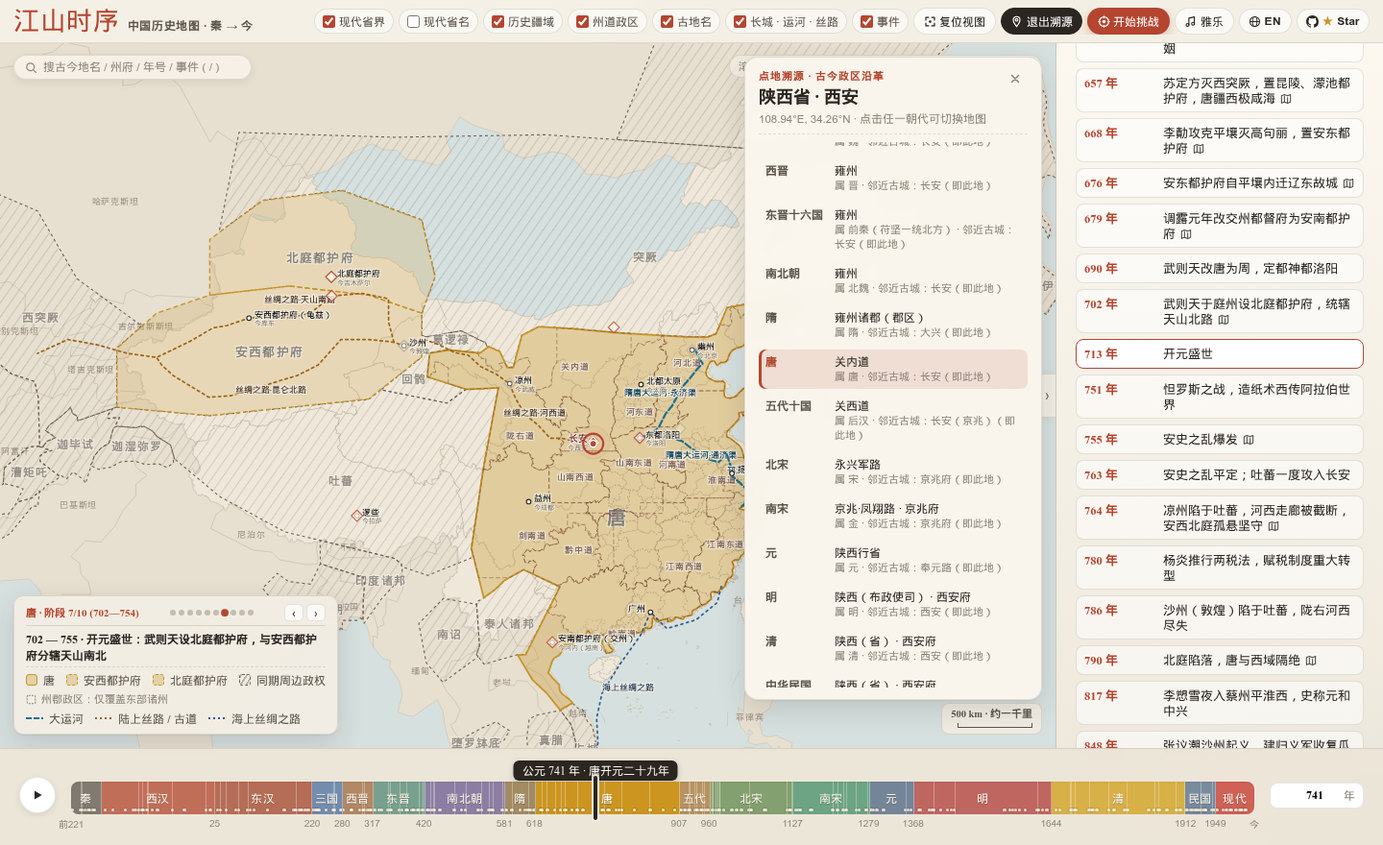
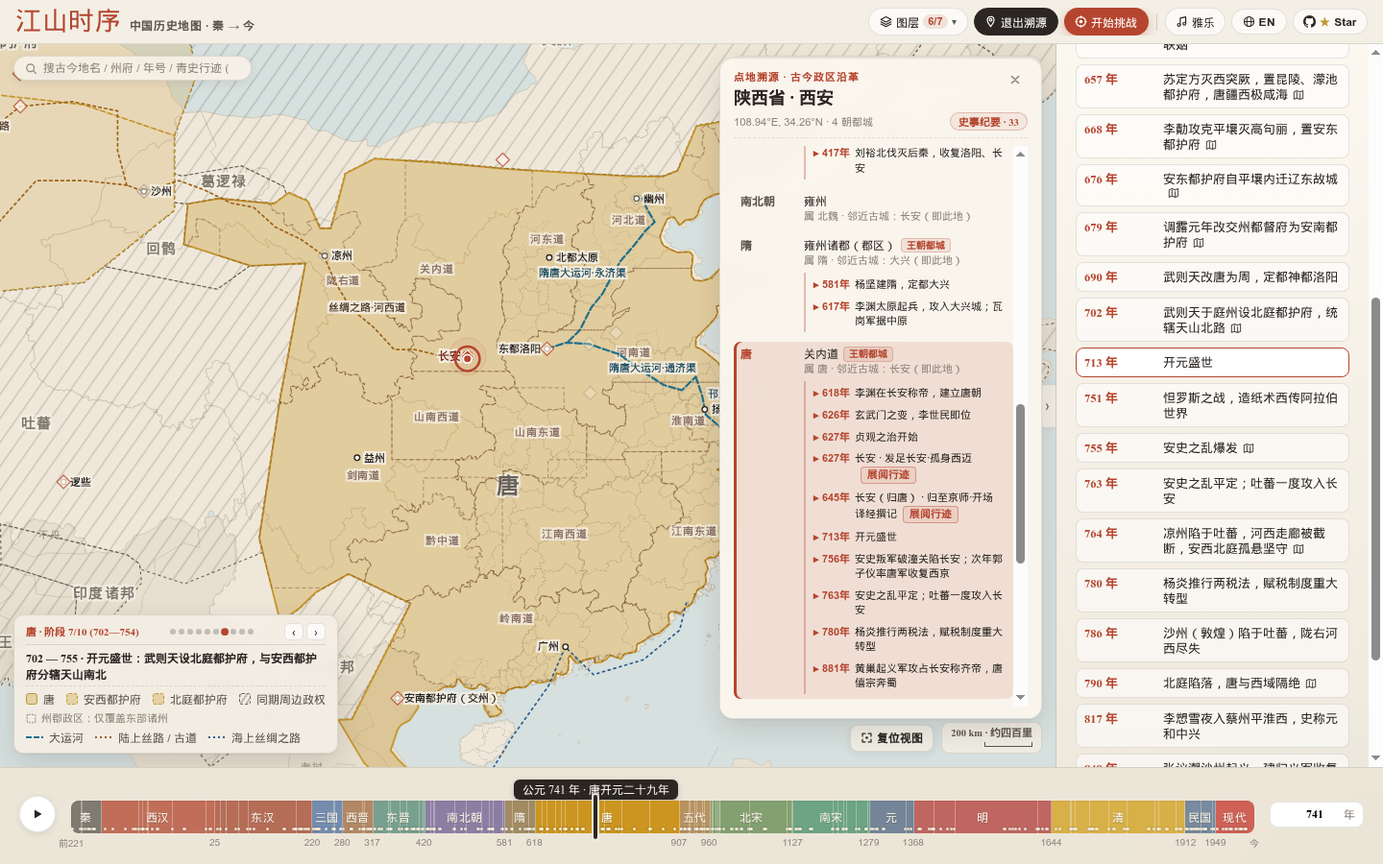
docs(readme): rewrite README around interactive ways to explore and add 5 updated preview screenshots

diff --git a/README.md b/README.md
@@ -1,153 +1,129 @@
 # 江山时序 · Chronicles of the Realm
 
-**中国历史疆域与政区交互式时间轴舆图（公元前 221 年 — 今）**  
+**一幅可以拖动时间、点城读史、追随古人足迹的中国历史交互舆图（公元前 221 年 — 今）**  
 **An Interactive Historical Atlas of China from the Qin Unification (221 BCE) to the Present**
 
-[**在线体验 / Live Demo → https://deanchensj.github.io/jiangshan-map/**](https://deanchensj.github.io/jiangshan-map/)
+[**立即在线把玩 / Play Live Demo → https://deanchensj.github.io/jiangshan-map/**](https://deanchensj.github.io/jiangshan-map/)
 
 ---
 
-## 界面预览 / Interface Preview
+## 这幅地图好玩在哪里？ / Why It's Fun to Explore
 
-### 1. 北宋元丰六年（1083 年）· 二级州府悬停检视（黄州）
-> **Northern Song (1083 CE · 6th Year of Yuanfeng) · Prefecture-Level Hover Inspection (`Huangzhou`)**  
-> 放大至荆湖北路与江淮之间，鼠标悬停于「黄州」（苏轼谪居黄州作《赤壁赋》次年），图面自动高亮黄州州境多边形并浮窗显示所属政权（宋）及今日对应省份（湖北省）；左下角显示北宋 10 个版图阶段进度条（`阶段 8/10 · 1038—1114`），右下角实时换算古今双标比例尺（`200 km · 约四百里`）。  
-> *Zoomed into Central China in 1083 CE with the cursor hovering over **Huangzhou** (where Su Shi composed the Ode on the Red Cliffs), highlighting its prefecture boundary, ruling polity (`Song`), modern provincial mapping (`Hubei`), intra-dynasty stage switcher (`Stage 8/10`), and dual-unit scale bar (`200 km · 400 li`).*  
-> [点击直达该视图 / Open this exact view →](https://deanchensj.github.io/jiangshan-map/?year=1083&zoom=1.85&center=113.5,31.2&hover=%E9%BB%84%E5%B7%9E)
+读史书、背古诗词时，你是否也常有这样的困惑：
+- *「六朝古都建康、苏东坡被贬的黄州、岳飞北伐的朱仙镇，放在今天的地图上到底在哪儿？」*
+- *「长安在两千年里换过多少个名字？这片土地上先后发生过多少场改写国运的大事？」*
+- *「汉武帝打通河西走廊、唐朝极盛期的安西都护府、宋辽夏三足鼎立，版图是怎么一步步演变的？」*
+
+**「江山时序」** 把两千多年的王朝疆域、州郡变迁、历史风云与人物行迹装进了一张宣纸设色古舆图里。你不需要翻检厚重的历史地图册，只需拖动滑块、点点城池，就能在时空之间自由穿梭。
+
+---
+
+### 玩法一：点开任意一座城，读它两千年的身世与风云
+
+在地图上**直接点击任意古城**（或者双击地图任意位置），就会展开一张 **「点地溯源」** 卡片：
+- **看古今政区怎么变**：从秦朝的郡、汉朝的刺史部、唐朝的道、宋朝的路，一路看到明清的府省，哪几个朝代曾在此建都（`王朝都城` 徽章）一目了然。
+- **看这里发生过什么大事**：每个朝代行下方直接内嵌当年发生在此地的历史大事（如长安的「玄武门之变」「开元盛世」「安史之乱陷长安」）。点一下右上角的 **「史事纪要」** 胶囊，还能一键筛出有大事发生的朝代；点击任意一条事件，时间轴和地图版图立即穿越回那一年！
+
+> [点击直达：盛唐开元二十九年（741 年）· 点开长安看 33 桩千年风云 →](https://deanchensj.github.io/jiangshan-map/?year=741&trace=108.94,34.26)
+
+![盛唐 741 年 · 长安点地溯源与史事纪要](assets/preview_741_tang_trace.png)
+
+---
+
+### 玩法二：跟着张骞、玄奘、苏东坡走一趟万里人生路
+
+打开 **「青史行迹」**，你可以化身历史同路人，沿着三条跨越万里与数十载的经典路线逐站巡礼：
+- **张骞凿空西域（前 138 — 前 126 年）**：从长安出发，被匈奴羁留十余载不改其志，持汉节一路走到大宛、康居、大月氏。
+- **玄奘西行求法（627 — 645 年）**：孤身出玉门关，涉莫贺延碛、越凌山雪隘、渡印度河，抵那烂陀寺求法归唐。
+- **苏轼宦海贬谪行迹（1056 — 1101 年）**：从出川赴京、密州超然台赏月，到乌台诗案后贬谪黄州写下《赤壁赋》，再到惠州、跨海远谪海南儋州。
+
+每点「下一站」（或按空格键开启自动巡礼），**底下的历史年份、帝王年号、王朝版图都会跟着古人的脚步同步流转**，卡片里还会浮现他们当年在此地留下的《史记》记载或千古名篇。
+
+> [点击直达：跟着苏东坡去密州与黄州（1075 — 1082 年）→](https://deanchensj.github.io/jiangshan-map/?journey=sushi&stop=4)
+
+![青史行迹 · 苏轼宦海贬谪路线](assets/preview_journey_sushi.png)
+
+---
+
+### 玩法三：拉动时间轴看天下分合，悬停州府查古今对号
+
+- **同屏看多政权对峙**：不仅有中原王朝，匈奴、突厥、吐蕃、回鹘，以及北宋时期的辽、西夏、大理，南宋时期的金、蒙古，都以各自鲜明的设色同屏呈现。鼠标移到左下角图例的政权名字上，对应政权立刻高亮；点一下直接聚焦过去。
+- **疆域盈亏「虚线残影」**：同一个朝代内部也有多次疆域伸缩（比如北宋 10 个阶段、唐朝 12 个阶段）。点左下角图例的阶段小圆点或 `‹ / ›` 按钮，图面会浮现上一阶段的朱砂虚线残影，哪块地是新开辟的、哪块地丢了，一眼看穿。
+- **300+ 历史州府悬停即查**：放大地图，鼠标指到任意州郡（如北宋的「黄州」、三国的「荆州」），自动高亮州界，并告诉你它属于哪个政权、对应今天的哪个省。
+
+> [点击直达：北宋元丰六年（1083 年）· 宋辽夏三足鼎立与「黄州」州境探查 →](https://deanchensj.github.io/jiangshan-map/?year=1083&zoom=1.85&center=113.5,31.2&hover=%E9%BB%84%E5%B7%9E)
 
 ![北宋 1083 年 · 黄州政区悬停预览](assets/preview_1083_huangzhou.png)
 
-### 2. 盛唐开元二十九年（741 年）· 开元十五道与长安「点地溯源」
-> **High Tang (741 CE · 29th Year of Kaiyuan) · Fifteen Kaiyuan Circuits & Administrative Genealogy (`Chang'an / Xi'an`)**  
-> 展示盛唐本纪版图、开元十五道与安西、北庭两大都护府及海陆丝绸之路，并开启「点地溯源」检视长安（今陕西西安）从秦内史、汉司隶、唐关内道、宋永兴军路直至明清的完整政区沿革，当前朝代（唐）自动朱砂高亮并居中同步。  
-> *Visualizing the High Tang empire at its territorial zenith alongside the Fifteen Circuits, the Anxi and Beiting Protectorates, and the Silk Road, with the **Trace Place** card open for Chang'an (`Xi'an, Shaanxi`) and live-synced to the active Tang dynasty row.*  
-> [点击直达该视图 / Open this exact view →](https://deanchensj.github.io/jiangshan-map/?year=741&trace=108.94,34.26)
+---
 
-![盛唐 741 年 · 长安点地溯源预览](assets/preview_741_tang_trace.png)
+### 玩法四：看千年工程动脉、量古代华里、听古琴雅乐
+
+- **长城、运河与丝路随年代生长**：切到秦汉明看万里长城演进，切到隋大业四年（608 年）看隋炀帝开凿的永济渠、通济渠、邗沟、江南河如何把涿郡（今北京）、洛阳、江都（今扬州）与余杭（今杭州）连成一体，切到永乐年间看郑和船队下西洋。
+- **读史专用的「公里 / 华里」双标比例尺**：右下角比例尺会随着缩放自动换算公里与传统华里（如 `200 km · 约四百里`），读史书看到「孤军深入三百里」时，直接在图上就能比划出有多远。
+- **古琴「雅乐」伴读**：点一下顶部工具栏的 **「雅乐」**，伴着《流水》《平沙落雁》《阳关三叠》《醉渔唱晚》《酒狂》的古琴声慢慢看图，历史氛围直接拉满。
+
+> [点击直达：隋大业四年（608 年）· 隋唐大运河贯通南北 →](https://deanchensj.github.io/jiangshan-map/?year=608)
+
+![隋 608 年 · 隋唐大运河与单行古地名](assets/preview_608_sui_canal.png)
 
 ---
 
-## 中文介绍
+### 玩法五：古地名挑战 —— 测测你在古代能当几品官？
 
-**「江山时序」** 是一套零外部运行时依赖的纯前端交互式中国历史地图集。项目以宣纸设色舆图为视觉基调，涵盖从秦并天下（前 221 年）至今两千余年的疆域消长、帝王年号纪年、一级行政大区（州 / 道 / 路 / 行省 / 布政使司 / 省）、二级郡县州府边界、古今名城沿革、重大历史事件空间锚点以及长城、运河、丝绸之路等交通动脉。
+觉得自己历史地理很熟？点右上角的 **「开始挑战」** 试试身手：
+- **地图寻址模式**：地图隐去所有文字标注，题目给出「南宋时期的泉州」「六朝古都建康」或「元代的奉元路」，凭你的历史直觉在地图上扎针，系统按你的落点与真实古城的球面距离打分！
+- **古今对号模式**：高亮地图上的某座古城，从四个现代城市里选出它的今日真身。
+- 十道题答完，系统会根据总分授予你 **「太史令 · 舆图大家」「职方郎中」「州郡从事」** 等传统官阶封号。
 
-### 核心功能
+> [点击直达：开启「古地名挑战 · 地图寻址」模式 →](https://deanchensj.github.io/jiangshan-map/?year=741&quiz=locate)
 
-1. **105 个高精度多阶段历史疆域快照与「疆域残影对比（Ghost Diff）」**
-   - 覆盖 **16 个历史时期**：秦、西汉、东汉、三国、西晋、东晋十六国、南北朝、隋、唐、五代十国、北宋（辽 / 西夏）、南宋（金 / 西夏 / 大蒙古国）、元、明、清、民国及现代。
-   - **朝代内阶段步进器**：左下角图例内置阶段圆点与 `‹ / ›` 步进按钮，直显当前阶段起止年份（如 `北宋 · 阶段 8/10 (1038—1114)`）。
-   - **疆域残影对比（Ghost Diff）**：在同一朝代内切换阶段或悬停阶段圆点时，图面自动以虚线叠加上一阶段或目标阶段的疆域轮廓残影，直观呈现版图扩张与收缩的精确边界；底部时间轴色块内嵌阶段切分刻度线与事件微标。
-2. **全量帝王年号纪年系统（前 221 年 — 1949 年）**
-   - 覆盖从秦始皇二十六年（前 221 年）、汉武帝建元/元狩、唐贞观/开元、宋熙宁/元丰直至明清与民国的完整帝王年号表。
-   - 时间轴滑块气泡、事件浮窗与搜索框同步展示公历与传统年号（如 `公元前119年 · 西汉元狩四年`、`公元1083年 · 北宋元丰六年`）。
-3. **全局快速检索框（快捷键 `/` 或 `Cmd/Ctrl + K`）**
-   - 左上角悬浮检索框支持跨朝代即时搜索**古今地名**（如「长安」「建康」「临安」）、**州道政区**（如「黄州」「荆湖北路」）、**帝王年号与公历年份**（如「贞观」「元丰六年」「1083」）、**朝代**及**重大历史事件**（如「淝水之战」），选中后自动跳转年代、平滑飞移镜头并展开沿革或事件详情。
-4. **双层历史政区体系（大区常驻 + 州府悬停）与图例双向联动**
-   - **第一级行政大区**：图面清晰展示汉十三刺史部、唐开元十五道与天宝节度使、宋代诸路、元代行中书省、明代两京十三布政使司、清代省及将军辖区。
-   - **第二级州郡府军（300+ 政区）**：保留精细州郡边界，鼠标悬停（或移动端轻点）即可高亮该州府并显示所属政权与今日对应的现代省份。
-   - **图例与政权双向联动**：鼠标悬停左下角图例中的任意政权色块，地图对应政权疆域与国号自动高亮、其余政权半透明退后；点击图例色块自动缩放聚焦至该政权版图范围。
-5. **分级古今名城、自动避让排版与动态古今比例尺（`km · 华里`）**
-   - 默认视图聚焦历代都城、陪都与重镇；放大视图（`Zoom >= 1.75x`）自动浮现各道、路、行省治所及边塞名城，并标注古今地名对照与历史典故。
-   - 画布右下角配备随缩放倍率与中心纬度实时重算的**公制 / 传统华里双标比例尺**（如 `500 km · 约一千里`、`200 km · 约四百里`），读史看图时可直接换算古籍中的行军里程。
-6. **点地溯源（古今政区沿革追踪 · 实时同步）**
-   - 直接**单击任意古城**（或双击地图任意位置 / 开启「点地溯源」模式），即时生成该地点从秦郡、汉州郡、唐道州、宋路府、元行省到明清府省的 15 朝完整政区沿革卡片。
-   - 当前所处朝代自动朱砂高亮并居中滚动；在不关闭卡片的情况下拖动时间轴或切换阶段，卡片会实时同步刷新该地在当前年份的政权与州郡归属。
-7. **双模式古地名挑战（十题计分授衔）**
-   - **地图寻址**：给定某朝代古地名（如「建康」「临安」「奉元路」「天临路」），在隐去地名的历史底图上点击定址，按大圆球面距离（km）计算得分并绘制误差圈。
-   - **古今对号**：结合地图落点提示，从四个现代城市选项中选出古地名对应的今日城市。十题结束后根据总分授予「太史令 · 舆图大家」「職方郎中」等传统官制封号。
-8. **青史行迹 · 人物时空巡礼（张骞凿空西域 / 玄奘西行求法 / 苏轼宦海贬谪）**
-   - 内置三条横跨万里与数十载的人物叙事路线：**张骞凿空西域**（前 138 — 前 126 年，9 站）、**玄奘西行求法**（627 — 645 年，10 站）、**苏轼宦海贬谪行迹**（1056 — 1101 年，10 站）。
-   - 支持从顶部「图层」菜单、全局搜索框 `/`、编年史事件卡「展阅行迹」按钮或 URL 参数开启；支持逐站步进、`Space` 自动巡礼与「全线视图」鸟瞰，切换站点时时间轴年份、帝王年号与底层王朝疆域自动实时联动，配以《史记》《大唐西域记》及东坡诗词原文引文。
-9. **历史工程走廊、传统古琴雅乐与全屏舆图模式**
-   - 动态按年代渲染秦汉明三代**长城**、隋唐与元明清**大运河**、**陆上丝绸之路**、**唐蕃古道**、**西南丝路（茶马古道）**及**郑和下西洋航线**。
-   - 顶部内置 **「雅乐」** 播放器，收录《流水》《平沙落雁》《阳关三叠》《醉渔唱晚》《酒狂》五首公有领域传统古琴名曲，支持曲目切换与 Web Audio 五声音阶离线泛音合成兜底。
-   - 支持一键折叠右侧编年栏进入 **100% 全屏舆图模式**，并提供中英双语（`中文` / `EN`）全量无损切换。
+![古地名挑战模式预览](assets/preview_quiz_challenge.png)
 
-### 快捷键与交互速查表
+---
 
-| 操作 / 按键 | 功能说明 |
+## 实用快捷键与任意门（Deep Links）
+
+### 快捷键一览
+
+| 操作 / 按键 | 作用 |
 | :--- | :--- |
-| `/` 或 `Cmd/Ctrl + K` | 聚焦左上角全局检索框（搜古今地名 / 州府 / 年号 / 公历年份 / 朝代 / 青史行迹） |
-| `←` / `→` | 年份向前 / 向后步进 `10` 年（按住 `Shift + ←/→` 步进 `50` 年；行迹模式下切换上/下一站） |
-| `Space`（空格键） | 启动 / 暂停历史时间轴自动演进播放（行迹模式下启动 / 暂停自动巡礼） |
-| `Home` / `End` | 一键跳至时间轴起点（前 221 年秦一统）或终点（现代） |
-| `Esc` | 关闭当前打开的行迹巡礼、事件气泡、搜索下拉框或点地溯源卡片 |
-| **单击古城 / 双击地图** | 直接打开该坐标从秦至清的 15 朝「点地溯源」沿革卡片 |
-| **悬停 / 点击左下角图例政权** | 悬停单独高亮该政权版图；点击自动平滑缩放聚焦至该政权疆域 |
-| **悬停左下角阶段圆点或 `‹ / ›`** | 在图面实时预览目标版图阶段的朱砂虚线疆域边界（Ghost Diff） |
+| **`/`** 或 **`Cmd/Ctrl + K`** | 唤醒左上角**万能搜索框**：搜古今地名（`长安`/`西安`）、州府（`黄州`）、年号（`贞观`/`元丰六年`）、年份（`1083`）、事件（`淝水之战`）或人物行迹（`苏轼`） |
+| **`←` / `→`** | 时间轴向前 / 向后走 `10` 年（按住 `Shift` 走 `50` 年；行迹模式下切换上一站 / 下一站） |
+| **`Space`（空格键）** | 自动播放 / 暂停历史演进（行迹模式下自动巡礼） |
+| **`单击古城` / `双击地图`** | 打开该地从秦到清的 15 朝「点地溯源 + 史事纪要」卡片 |
+| **`悬停 / 点击图例色块`** | 悬停单独高亮该政权疆域；点击自动缩放聚焦至该政权 |
 
-### 朝代与政区覆盖概览
+### 一键直达链接（适合分享给朋友）
 
-| 时期 | 年代范围 | 快照数 | 一级政区层级 | 代表性阶段示例 |
-| :--- | :--- | :---: | :--- | :--- |
-| **秦** | 前221 — 前202 | 3 | 关中与诸郡大区 | 秦并六国、北击匈奴南征百越、秦末楚汉之际 |
-| **西汉** | 前202 — 公元25 | 8 | 十三刺史部（州） | 汉初郡国并行、汉武帝开疆、西域都护府设立、新莽时期 |
-| **东汉** | 25 — 220 | 6 | 十三州刺史部 | 光武中兴、班超经营西域、黄巾起义与州牧割据 |
-| **三国** | 220 — 280 | 6 | 魏蜀吴三方州域 | 魏蜀吴鼎立、诸葛亮北伐、邓艾灭蜀 |
-| **西晋** | 280 — 317 | 4 | 十九州 | 太康之治天下一统、八王之乱、永嘉之乱 |
-| **东晋十六国** | 317 — 420 | 9 | 侨州与南北州域 | 祖逖北伐、前秦统一北方、淝水之战、刘裕北伐 |
-| **南北朝** | 420 — 589 | 9 | 南北诸州 | 元嘉北伐、北魏孝文帝汉化、东西魏与北齐北周对峙 |
-| **隋** | 589 — 618 | 4 | 州 / 郡 | 开皇平陈一统、大运河开通与炀帝西巡、隋末群雄 |
-| **唐** | 618 — 907 | 12 | 贞观十道 / 开元十五道 / 节度使 | 贞观平突厥、龙朔极盛、开元盛世、安史之乱、元和中兴、河西归义军 |
-| **五代十国** | 907 — 960 | 6 | 中原与十国大区 | 后梁后唐争霸、契丹南下燕云、周世宗柴荣北伐 |
-| **北宋** | 960 — 1127 | 7 | 十五路 / 二十三路 | 北宋平定江南、澶渊之盟、宋夏庆历和议、联金灭辽与靖康之变 |
-| **南宋** | 1127 — 1279 | 8 | 两浙、江南、荆湖、川峡等路 | 岳飞北伐、绍兴和议、蒙古灭金、钓鱼城之战、崖山海战 |
-| **元** | 1279 — 1368 | 5 | 中书省、十行省与宣政院辖地 | 元平江南一统、四大汗国格局、元末红巾军起义 |
-| **明** | 1368 — 1644 | 7 | 两京十三布政使司与九边重镇 | 洪武开国、永乐迁都与奴儿干都司、土木堡之变、万历三大征 |
-| **清** | 1644 — 1912 | 9 | 十八省、东三省与边疆将军辖区 | 康熙平三藩收台湾、乾隆平定准部回部极盛、晚清条约与建省 |
-| **民国 / 现代** | 1912 — 今 | 2 | 省 / 自治区 / 直辖市 / 特别行政区 | 民国行政区划、现代省级行政区划对照 |
-
-### URL 参数直达（Deep Linking）
-
-支持通过 URL 参数直接分享或打开特定历史时刻与功能模式：
-
-- 指定年份：`?year=741`（唐开元二十九年）或 `?year=-119`（汉武帝漠北之战）
-- 指定年份并弹出事件卡片：`?year=383&event=383`（淝水之战）
-- 指定视野并高亮特定二级州府：`?year=1083&zoom=1.85&center=113.5,31.2&hover=黄州`（北宋黄州）
-- 直接开启「青史行迹」人物路线：`?journey=zhangqian`（张骞通西域）、`?journey=xuanzang`（玄奘西行）、`?journey=sushi`（苏轼贬谪路线，可加 `&stop=6` 直达黄州站）
-- 直接开启某坐标「点地溯源」：`?trace=108.94,34.26`（长安/西安历代沿革）
-- 直接开启挑战模式：`?quiz=locate`（地图寻址）或 `?quiz=match`（古今对号）
-- 默认英文界面：`?lang=en`
+你可以直接在网址后面加上参数，把某个特定的历史瞬间分享给朋友：
+- **看某一年**：[`?year=741`](https://deanchensj.github.io/jiangshan-map/?year=741)（盛唐开元二十九年） / [`?year=-119`](https://deanchensj.github.io/jiangshan-map/?year=-119)（汉武帝漠北之战）
+- **看某场大战**：[`?year=383&event=383`](https://deanchensj.github.io/jiangshan-map/?year=383&event=383)（东晋前秦 · 淝水之战）
+- **查某座古城的千年故事**：[`?year=741&trace=108.94,34.26`](https://deanchensj.github.io/jiangshan-map/?year=741&trace=108.94,34.26)（长安/西安） / [`?year=1083&trace=114.35,34.79`](https://deanchensj.github.io/jiangshan-map/?year=1083&trace=114.35,34.79)（东京汴梁/开封）
+- **走一段人物行迹**：[`?journey=zhangqian`](https://deanchensj.github.io/jiangshan-map/?journey=zhangqian)（张骞通西域） / [`?journey=xuanzang`](https://deanchensj.github.io/jiangshan-map/?journey=xuanzang)（玄奘西行） / [`?journey=sushi`](https://deanchensj.github.io/jiangshan-map/?journey=sushi)（苏轼贬谪路线）
+- **直接开一局挑战**：[`?quiz=locate`](https://deanchensj.github.io/jiangshan-map/?quiz=locate)（地图盲猜寻址） / [`?quiz=match`](https://deanchensj.github.io/jiangshan-map/?quiz=match)（古今地名对号）
+- **切换英文版**：[`?lang=en`](https://deanchensj.github.io/jiangshan-map/?lang=en)
 
 ---
 
-## English Introduction
+## English Overview
 
-**Chronicles of the Realm (`jiangshan-map`)** is a zero-dependency, pure front-end interactive historical atlas of China. Styled after traditional Chinese parchment cartography, it visualizes over two millennia of territorial evolution from the Qin unification (221 BCE) to the present day, complete with imperial reign eras (*Nianhao*), two-tier administrative divisions, ancient-to-modern city mappings, spatial event markers, curated historical journeys, engineering corridors, and classical Guqin music.
+**Chronicles of the Realm (`jiangshan-map`)** is an interactive historical atlas of China from the Qin unification (221 BCE) to the present day, crafted in the aesthetic of traditional Chinese parchment cartography.
 
-### Key Features
+### What You Can Do
 
-1. **105 Multi-Stage Territorial Snapshots & Ghost Boundary Diff**
-   - Covers **16 major historical eras**: Qin, Western Han, Eastern Han, Three Kingdoms, Western Jin, Eastern Jin & Sixteen Kingdoms, Northern & Southern Dynasties, Sui, Tang, Five Dynasties & Ten Kingdoms, Northern Song (with Liao & Western Xia), Southern Song (with Jin, Western Xia & Mongol Empire), Yuan, Ming, Qing, Republic of China, and Present.
-   - **Intra-Dynasty Stage Switcher & Ghost Diff**: Step through fine-grained territorial stages within a dynasty using the legend stage bar (`Stage 8/10 · 1038—1114`). Switching or hovering over stages renders a dashed **Ghost Diff** outline of the previous/previewed stage's frontier so territorial expansions and contractions are immediately visible.
-2. **Imperial Reign Era (`Nianhao`) Chronology (221 BCE – 1949 CE)**
-   - Maps every historical year to its exact traditional Chinese imperial reign era (e.g., *4th Year of Yuanshou* in 119 BCE, *29th Year of Kaiyuan* in 741 CE, *6th Year of Yuanfeng* in 1083 CE) across the timeline scrubber, event balloons, and quick search.
-3. **Global Quick Search (`/` or `Cmd/Ctrl + K`)**
-   - Instant cross-dynasty search for **ancient & modern city names**, **prefectures & circuits**, **imperial reign eras & Gregorian years**, **dynasties**, **historical milestones**, and **curated historical journeys**, automatically jumping to the target year and flying the camera to the location.
-4. **Two-Tier Administrative Hierarchy & Interactive Polity Legend**
-   - **First-Level Macro Regions**: Displays Han's 13 Inspectoral Regions (*Zhou*), Tang's 15 Circuits (*Dao*) and Jiedushi defense commands, Song's Circuits (*Lu*), Yuan's Branch Secretariats (*Xingsheng*), and Ming/Qing Provinces (*Sheng*) with automatic label collision avoidance.
-   - **Second-Level Prefectures & Commanderies (300+ polygons)**: Preserves detailed prefecture (*Zhou / Fu / Jun*) boundaries derived from CHGIS and Hartwell datasets; hovering highlights the prefecture and reveals its ruling polity and modern provincial equivalent.
-   - **Bidirectional Polity Focus**: Hovering any polity swatch in the legend highlights that polity on the map and dims competing realms; clicking the swatch smoothly zooms the camera to frame its territory.
-5. **Zoom-Adaptive Historical Cities & Dual-Unit Scale Bar (`km · li`)**
-   - Displays imperial capitals and primary metropolises at default zoom, and reveals regional circuit seats and frontier garrisons when zoomed in (`Zoom >= 1.75x`).
-   - Features a latitude- and zoom-aware **Dual-Unit Scale Bar** at the bottom-right of the canvas showing both metric kilometers and traditional Chinese *li* (`1 km = 2 li`, e.g., `200 km · 400 li`).
-6. **Live-Synced Trace Place (Administrative Genealogy)**
-   - Click any ancient city directly (or double-click anywhere on the map) to generate a complete 15-dynasty chronological genealogy from Qin commanderies to Ming/Qing provinces, with the active dynasty highlighted and live-updated as you scrub the timeline.
-7. **Dual-Mode Geography Challenge**
-   - **Map Locate**: Pinpoint an ancient city on an unlabeled historical map and earn points based on great-circle distance accuracy (km).
-   - **Name Match**: Match an ancient city highlighted on the map to its modern counterpart in a 4-way multiple-choice quiz, earning traditional imperial court ranks at the end of 10 rounds.
-8. **Curated Historical Journeys (Zhang Qian, Xuanzang, Su Shi)**
-   - Interactive stop-by-stop spatiotemporal tours for **Zhang Qian's Mission to the Western Regions** (138–126 BCE, 9 stops), **Xuanzang's Pilgrimage to India** (627–645 CE, 10 stops), and **Su Shi's Literary Exile Across Song China** (1056–1101 CE, 10 stops), synchronized with timeline reign eras, territorial snapshots, and primary-source literary quotes.
-9. **Historical Corridors, Classical Guqin Soundtrack (`雅乐`) & Full-Map Mode**
-   - Time-filtered rendering of the Great Wall (Qin, Han, Ming), the Grand Canal (Sui–Tang & Yuan–Qing), the overland Silk Road, the Tang–Tibet Ancient Road, the Southwest Tea-Horse Road, and Zheng He's Maritime Voyages.
-   - Built-in player featuring five public-domain classical Guqin pieces with a Web Audio pentatonic synthesizer fallback, a one-click collapsible chronicle sidebar for **100% full-map viewing**, and full bilingual (`中文` / `EN`) support.
+1. **Click Any Ancient City to Uncover 2,000 Years of Stories (`Trace Place`)**: Click any city (or double-click anywhere on the map) to see how its name and administrative jurisdiction evolved across 15 dynasties, which empires crowned it as their capital, and every major historical event that unfolded there—click any event to time-travel straight to that year.
+2. **Walk in the Footsteps of Historical Figures (`Historical Journeys`)**: Follow **Zhang Qian's** expedition to Central Asia (138–126 BCE), **Xuanzang's** pilgrimage to India (627–645 CE), or **Su Shi's** literary exile across Song China (1056–1101 CE). As you step from stop to stop, the map's reign eras, borders, and primary-source literary quotes evolve in sync.
+3. **Scrub Through 2,200+ Years & Inspect 300+ Ancient Prefectures**: Watch empires rise, split, and reunify across 105 territorial stages with dashed **Ghost Boundary Diffs** showing exact frontier shifts. Zoom in and hover over over 300 historical prefectures (*Zhou / Fu / Jun*) to see their modern provincial counterparts.
+4. **Explore Historical Megaprojects & Listen to Classical Guqin (`雅乐`)**: Trace the Great Wall, the Grand Canal, the Silk Road, and Zheng He's maritime voyages; measure distances with a live **km / traditional Chinese *li*** dual scale bar; and toggle full-Data English (`EN`) or classical Guqin music in one click.
+5. **Play the Ancient Geography Challenge**: Test your historical intuition by pinpointing unlabeled ancient cities on the map (`Map Locate`) or matching ancient names to modern cities (`Name Match`) across 10 rounds to earn traditional imperial court titles.
 
 ---
 
-## Local Development / 本地运行
+## 本地运行 / Run Locally
 
-无需安装任何构建工具或打包器，克隆仓库后使用任意静态文件服务器即可运行：  
-No build step or bundler required. Clone the repository and serve the root directory with any static HTTP server:
+项目为纯静态网页，无需安装任何依赖或构建工具，克隆后用任意静态服务器打开即可：  
+No dependencies or build steps required. Clone and serve with any static HTTP server:
 
 ```bash
 git clone https://github.com/DeanChensj/jiangshan-map.git
@@ -155,16 +131,14 @@ cd jiangshan-map
 python3 -m http.server 8000
 ```
 
-随后在浏览器打开 `http://localhost:8000`。  
-Then open `http://localhost:8000` in your browser.
+随后在浏览器打开 `http://localhost:8000`。
 
 ---
 
-## Data Sources & License / 数据来源与开源协议
+## 致谢与开源协议 / Credits & License
 
-- **历史政权疆域基图 / Historical Polity Basemaps**: Derived from [aourednik/historical-basemaps](https://github.com/aourednik/historical-basemaps) (GPL-3.0) with custom multi-phase historical refinements.
-- **历史州郡与一级政区多边形 / Administrative Polygons**: Derived from **CHGIS** (China Historical Geographic Information System, Harvard Yenching Institute & Fudan University) and **Robert M. Hartwell** historical GIS datasets.
-- **现代省界底图 / Modern Provincial Boundaries**: Derived from DataV GeoAtlas / AutoNavi open boundary data for historical-to-modern spatial reference.
-- **古琴音频 / Classical Guqin Audio**: Public-domain recordings from Wikimedia Commons (*Liu Shui*, *Pingsha Luoyan*, *Yangguan Sandie*, *Zuiyu Changwan*, *Jiu Kuang*).
-- **免责声明 / Disclaimer**: 地图中的历史疆域轮廓与州郡政区边界为示意性历史近似，旨在直观呈现各时期大致统治与管辖范围，非精确现代测绘边界。 / Historical boundaries are schematic approximations intended for educational and comparative visualization.
-- **开源协议 / License**: Released under **GPL-3.0**.
+- **历史疆域与政区参考 / Historical GIS References**: [aourednik/historical-basemaps](https://github.com/aourednik/historical-basemaps) (GPL-3.0), **CHGIS** (Harvard Yenching Institute & Fudan University), and **Robert M. Hartwell** historical GIS datasets.
+- **现代省界参考 / Modern Provincial Reference**: DataV GeoAtlas open boundary data.
+- **古琴雅乐录音 / Classical Guqin Audio**: Wikimedia Commons public-domain recordings (*Liu Shui*, *Pingsha Luoyan*, *Yangguan Sandie*, *Zuiyu Changwan*, *Jiu Kuang*).
+- **说明 / Note**: 地图中的历史疆域轮廓与州郡政区边界为示意性近似，旨在直观呈现各时期大致统治与管辖范围，非精确现代测绘边界。
+- **开源协议 / License**: **GPL-3.0**.
